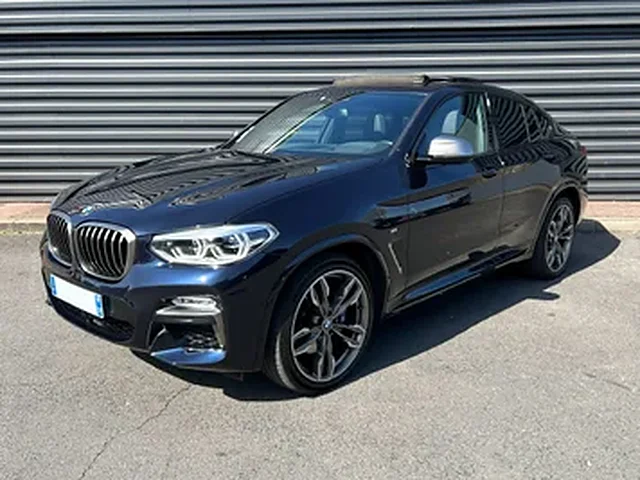
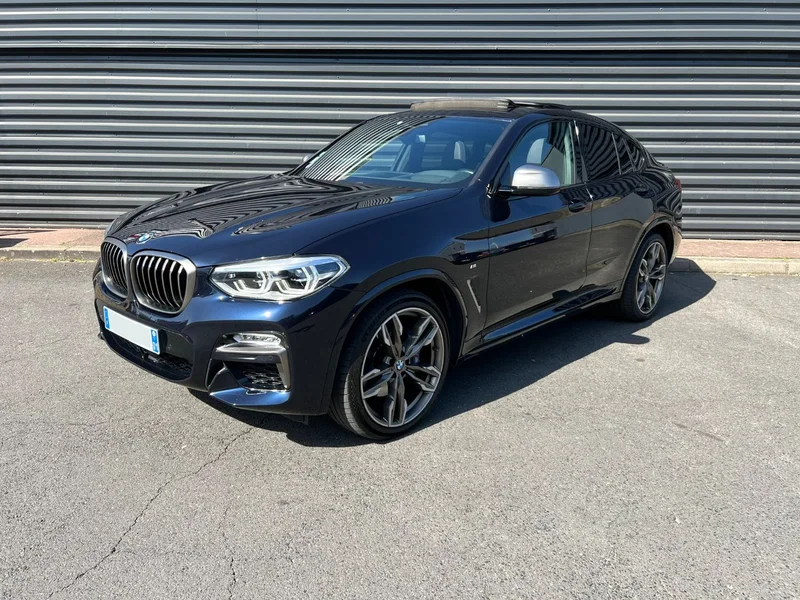
Remplace cinq photos par leurs versions haute définition
Claude-Session: https://claude.ai/code/session_01UhdDFA4rTzXMCtaKgKtiqz

diff --git a/site/vehicules.html b/site/vehicules.html
@@ -66,18 +66,18 @@
         <p class="chapeau r" style="--d:.16s">Ces voitures ne sont plus en stock : elles sont passées par chez nous avant de trouver leur acquéreur. Elles donnent une idée de ce que nous vendons.</p>
       </div>
       <div class="livrees">
-        <figure class="r"><img src="assets/stock-14.webp" alt="Porsche Panamera vendue par ZYCAR" width="640" height="480" loading="lazy"><figcaption>Porsche Panamera</figcaption></figure>
-        <figure class="r"><img src="assets/stock-13.webp" alt="BMW M5 vendue par ZYCAR" width="640" height="480" loading="lazy"><figcaption>BMW M5</figcaption></figure>
+        <figure class="r"><img src="assets/stock-14.webp" alt="Porsche Panamera vendue par ZYCAR" width="800" height="600" loading="lazy"><figcaption>Porsche Panamera</figcaption></figure>
+        <figure class="r"><img src="assets/stock-13.webp" alt="BMW M5 vendue par ZYCAR" width="800" height="600" loading="lazy"><figcaption>BMW M5</figcaption></figure>
         <figure class="r"><img src="assets/stock-10.webp" alt="Porsche Macan vendue par ZYCAR" width="800" height="600" loading="lazy"><figcaption>Porsche Macan</figcaption></figure>
         <figure class="r"><img src="assets/stock-5.webp" alt="BMW M4 vendue par ZYCAR" width="640" height="480" loading="lazy"><figcaption>BMW M4</figcaption></figure>
         <figure class="r"><img src="assets/stock-4.webp" alt="BMW M2 vendue par ZYCAR" width="640" height="480" loading="lazy"><figcaption>BMW M2</figcaption></figure>
-        <figure class="r"><img src="assets/stock-2.webp" alt="Kia EV6 vendue par ZYCAR" width="640" height="480" loading="lazy"><figcaption>Kia EV6</figcaption></figure>
-        <figure class="r"><img src="assets/stock-1.webp" alt="BMW X4 vendue par ZYCAR" width="640" height="480" loading="lazy"><figcaption>BMW X4</figcaption></figure>
+        <figure class="r"><img src="assets/stock-2.webp" alt="Kia EV6 vendue par ZYCAR" width="800" height="600" loading="lazy"><figcaption>Kia EV6</figcaption></figure>
+        <figure class="r"><img src="assets/stock-1.webp" alt="BMW X4 vendue par ZYCAR" width="800" height="600" loading="lazy"><figcaption>BMW X4</figcaption></figure>
         <figure class="r"><img src="assets/stock-7.webp" alt="Tesla Model S vendue par ZYCAR" width="800" height="600" loading="lazy"><figcaption>Tesla Model S</figcaption></figure>
         <figure class="r"><img src="assets/stock-9.webp" alt="BMW Série 3 Touring vendue par ZYCAR" width="800" height="600" loading="lazy"><figcaption>BMW Série 3 Touring</figcaption></figure>
         <figure class="r"><img src="assets/stock-8.webp" alt="BMW Série 1 vendue par ZYCAR" width="800" height="600" loading="lazy"><figcaption>BMW Série 1</figcaption></figure>
         <figure class="r"><img src="assets/stock-6.webp" alt="Audi A3 Sportback vendue par ZYCAR" width="800" height="600" loading="lazy"><figcaption>Audi A3 Sportback</figcaption></figure>
-        <figure class="r"><img src="assets/stock-3.webp" alt="Volkswagen Golf GTI vendue par ZYCAR" width="640" height="480" loading="lazy"><figcaption>Volkswagen Golf GTI</figcaption></figure>
+        <figure class="r"><img src="assets/stock-3.webp" alt="Volkswagen Golf GTI vendue par ZYCAR" width="800" height="600" loading="lazy"><figcaption>Volkswagen Golf GTI</figcaption></figure>
         <figure class="r"><img src="assets/stock-12.webp" alt="Hyundai i30 N vendue par ZYCAR" width="800" height="600" loading="lazy"><figcaption>Hyundai i30 N</figcaption></figure>
         <figure class="r"><img src="assets/stock-11.webp" alt="Hyundai i20 N vendue par ZYCAR" width="800" height="600" loading="lazy"><figcaption>Hyundai i20 N</figcaption></figure>
       </div>

diff --git a/src/pages/vehicules.html b/src/pages/vehicules.html
@@ -33,18 +33,18 @@
         <p class="chapeau r" style="--d:.16s">Ces voitures ne sont plus en stock : elles sont passées par chez nous avant de trouver leur acquéreur. Elles donnent une idée de ce que nous vendons.</p>
       </div>
       <div class="livrees">
-        <figure class="r"><img src="assets/stock-14.webp" alt="Porsche Panamera vendue par ZYCAR" width="640" height="480" loading="lazy"><figcaption>Porsche Panamera</figcaption></figure>
-        <figure class="r"><img src="assets/stock-13.webp" alt="BMW M5 vendue par ZYCAR" width="640" height="480" loading="lazy"><figcaption>BMW M5</figcaption></figure>
+        <figure class="r"><img src="assets/stock-14.webp" alt="Porsche Panamera vendue par ZYCAR" width="800" height="600" loading="lazy"><figcaption>Porsche Panamera</figcaption></figure>
+        <figure class="r"><img src="assets/stock-13.webp" alt="BMW M5 vendue par ZYCAR" width="800" height="600" loading="lazy"><figcaption>BMW M5</figcaption></figure>
         <figure class="r"><img src="assets/stock-10.webp" alt="Porsche Macan vendue par ZYCAR" width="800" height="600" loading="lazy"><figcaption>Porsche Macan</figcaption></figure>
         <figure class="r"><img src="assets/stock-5.webp" alt="BMW M4 vendue par ZYCAR" width="640" height="480" loading="lazy"><figcaption>BMW M4</figcaption></figure>
         <figure class="r"><img src="assets/stock-4.webp" alt="BMW M2 vendue par ZYCAR" width="640" height="480" loading="lazy"><figcaption>BMW M2</figcaption></figure>
-        <figure class="r"><img src="assets/stock-2.webp" alt="Kia EV6 vendue par ZYCAR" width="640" height="480" loading="lazy"><figcaption>Kia EV6</figcaption></figure>
-        <figure class="r"><img src="assets/stock-1.webp" alt="BMW X4 vendue par ZYCAR" width="640" height="480" loading="lazy"><figcaption>BMW X4</figcaption></figure>
+        <figure class="r"><img src="assets/stock-2.webp" alt="Kia EV6 vendue par ZYCAR" width="800" height="600" loading="lazy"><figcaption>Kia EV6</figcaption></figure>
+        <figure class="r"><img src="assets/stock-1.webp" alt="BMW X4 vendue par ZYCAR" width="800" height="600" loading="lazy"><figcaption>BMW X4</figcaption></figure>
         <figure class="r"><img src="assets/stock-7.webp" alt="Tesla Model S vendue par ZYCAR" width="800" height="600" loading="lazy"><figcaption>Tesla Model S</figcaption></figure>
         <figure class="r"><img src="assets/stock-9.webp" alt="BMW Série 3 Touring vendue par ZYCAR" width="800" height="600" loading="lazy"><figcaption>BMW Série 3 Touring</figcaption></figure>
         <figure class="r"><img src="assets/stock-8.webp" alt="BMW Série 1 vendue par ZYCAR" width="800" height="600" loading="lazy"><figcaption>BMW Série 1</figcaption></figure>
         <figure class="r"><img src="assets/stock-6.webp" alt="Audi A3 Sportback vendue par ZYCAR" width="800" height="600" loading="lazy"><figcaption>Audi A3 Sportback</figcaption></figure>
-        <figure class="r"><img src="assets/stock-3.webp" alt="Volkswagen Golf GTI vendue par ZYCAR" width="640" height="480" loading="lazy"><figcaption>Volkswagen Golf GTI</figcaption></figure>
+        <figure class="r"><img src="assets/stock-3.webp" alt="Volkswagen Golf GTI vendue par ZYCAR" width="800" height="600" loading="lazy"><figcaption>Volkswagen Golf GTI</figcaption></figure>
         <figure class="r"><img src="assets/stock-12.webp" alt="Hyundai i30 N vendue par ZYCAR" width="800" height="600" loading="lazy"><figcaption>Hyundai i30 N</figcaption></figure>
         <figure class="r"><img src="assets/stock-11.webp" alt="Hyundai i20 N vendue par ZYCAR" width="800" height="600" loading="lazy"><figcaption>Hyundai i20 N</figcaption></figure>
       </div>

diff --git a/site/index.html b/site/index.html
@@ -58,18 +58,18 @@
           <div class="galerie">
             <div class="galerie__col">
               <img src="assets/stock-6.webp" alt="" width="800" height="600">
-              <img src="assets/stock-1.webp" alt="" width="640" height="480">
+              <img src="assets/stock-1.webp" alt="" width="800" height="600">
               <img src="assets/stock-11.webp" alt="" width="800" height="600">
               <img src="assets/stock-8.webp" alt="" width="800" height="600">
-              <img src="assets/stock-13.webp" alt="" width="640" height="480">
-              <img src="assets/stock-3.webp" alt="" width="640" height="480">
+              <img src="assets/stock-13.webp" alt="" width="800" height="600">
+              <img src="assets/stock-3.webp" alt="" width="800" height="600">
               <img src="assets/stock-10.webp" alt="" width="800" height="600">
               <img src="assets/stock-6.webp" alt="" width="800" height="600">
-              <img src="assets/stock-1.webp" alt="" width="640" height="480">
+              <img src="assets/stock-1.webp" alt="" width="800" height="600">
               <img src="assets/stock-11.webp" alt="" width="800" height="600">
               <img src="assets/stock-8.webp" alt="" width="800" height="600">
-              <img src="assets/stock-13.webp" alt="" width="640" height="480">
-              <img src="assets/stock-3.webp" alt="" width="640" height="480">
+              <img src="assets/stock-13.webp" alt="" width="800" height="600">
+              <img src="assets/stock-3.webp" alt="" width="800" height="600">
               <img src="assets/stock-10.webp" alt="" width="800" height="600">
             </div>
             <div class="galerie__col galerie__col--inverse">
@@ -77,15 +77,15 @@
               <img src="assets/stock-5.webp" alt="" width="640" height="480">
               <img src="assets/stock-12.webp" alt="" width="800" height="600">
               <img src="assets/stock-7.webp" alt="" width="800" height="600">
-              <img src="assets/stock-2.webp" alt="" width="640" height="480">
-              <img src="assets/stock-14.webp" alt="" width="640" height="480">
+              <img src="assets/stock-2.webp" alt="" width="800" height="600">
+              <img src="assets/stock-14.webp" alt="" width="800" height="600">
               <img src="assets/stock-4.webp" alt="" width="640" height="480">
               <img src="assets/stock-9.webp" alt="" width="800" height="600">
               <img src="assets/stock-5.webp" alt="" width="640" height="480">
               <img src="assets/stock-12.webp" alt="" width="800" height="600">
               <img src="assets/stock-7.webp" alt="" width="800" height="600">
-              <img src="assets/stock-2.webp" alt="" width="640" height="480">
-              <img src="assets/stock-14.webp" alt="" width="640" height="480">
+              <img src="assets/stock-2.webp" alt="" width="800" height="600">
+              <img src="assets/stock-14.webp" alt="" width="800" height="600">
               <img src="assets/stock-4.webp" alt="" width="640" height="480">
             </div>
           </div>

diff --git a/src/pages/index.html b/src/pages/index.html
@@ -25,18 +25,18 @@
           <div class="galerie">
             <div class="galerie__col">
               <img src="assets/stock-6.webp" alt="" width="800" height="600">
-              <img src="assets/stock-1.webp" alt="" width="640" height="480">
+              <img src="assets/stock-1.webp" alt="" width="800" height="600">
               <img src="assets/stock-11.webp" alt="" width="800" height="600">
               <img src="assets/stock-8.webp" alt="" width="800" height="600">
-              <img src="assets/stock-13.webp" alt="" width="640" height="480">
-              <img src="assets/stock-3.webp" alt="" width="640" height="480">
+              <img src="assets/stock-13.webp" alt="" width="800" height="600">
+              <img src="assets/stock-3.webp" alt="" width="800" height="600">
               <img src="assets/stock-10.webp" alt="" width="800" height="600">
               <img src="assets/stock-6.webp" alt="" width="800" height="600">
-              <img src="assets/stock-1.webp" alt="" width="640" height="480">
+              <img src="assets/stock-1.webp" alt="" width="800" height="600">
               <img src="assets/stock-11.webp" alt="" width="800" height="600">
               <img src="assets/stock-8.webp" alt="" width="800" height="600">
-              <img src="assets/stock-13.webp" alt="" width="640" height="480">
-              <img src="assets/stock-3.webp" alt="" width="640" height="480">
+              <img src="assets/stock-13.webp" alt="" width="800" height="600">
+              <img src="assets/stock-3.webp" alt="" width="800" height="600">
               <img src="assets/stock-10.webp" alt="" width="800" height="600">
             </div>
             <div class="galerie__col galerie__col--inverse">
@@ -44,15 +44,15 @@
               <img src="assets/stock-5.webp" alt="" width="640" height="480">
               <img src="assets/stock-12.webp" alt="" width="800" height="600">
               <img src="assets/stock-7.webp" alt="" width="800" height="600">
-              <img src="assets/stock-2.webp" alt="" width="640" height="480">
-              <img src="assets/stock-14.webp" alt="" width="640" height="480">
+              <img src="assets/stock-2.webp" alt="" width="800" height="600">
+              <img src="assets/stock-14.webp" alt="" width="800" height="600">
               <img src="assets/stock-4.webp" alt="" width="640" height="480">
               <img src="assets/stock-9.webp" alt="" width="800" height="600">
               <img src="assets/stock-5.webp" alt="" width="640" height="480">
               <img src="assets/stock-12.webp" alt="" width="800" height="600">
               <img src="assets/stock-7.webp" alt="" width="800" height="600">
-              <img src="assets/stock-2.webp" alt="" width="640" height="480">
-              <img src="assets/stock-14.webp" alt="" width="640" height="480">
+              <img src="assets/stock-2.webp" alt="" width="800" height="600">
+              <img src="assets/stock-14.webp" alt="" width="800" height="600">
               <img src="assets/stock-4.webp" alt="" width="640" height="480">
             </div>
           </div>
